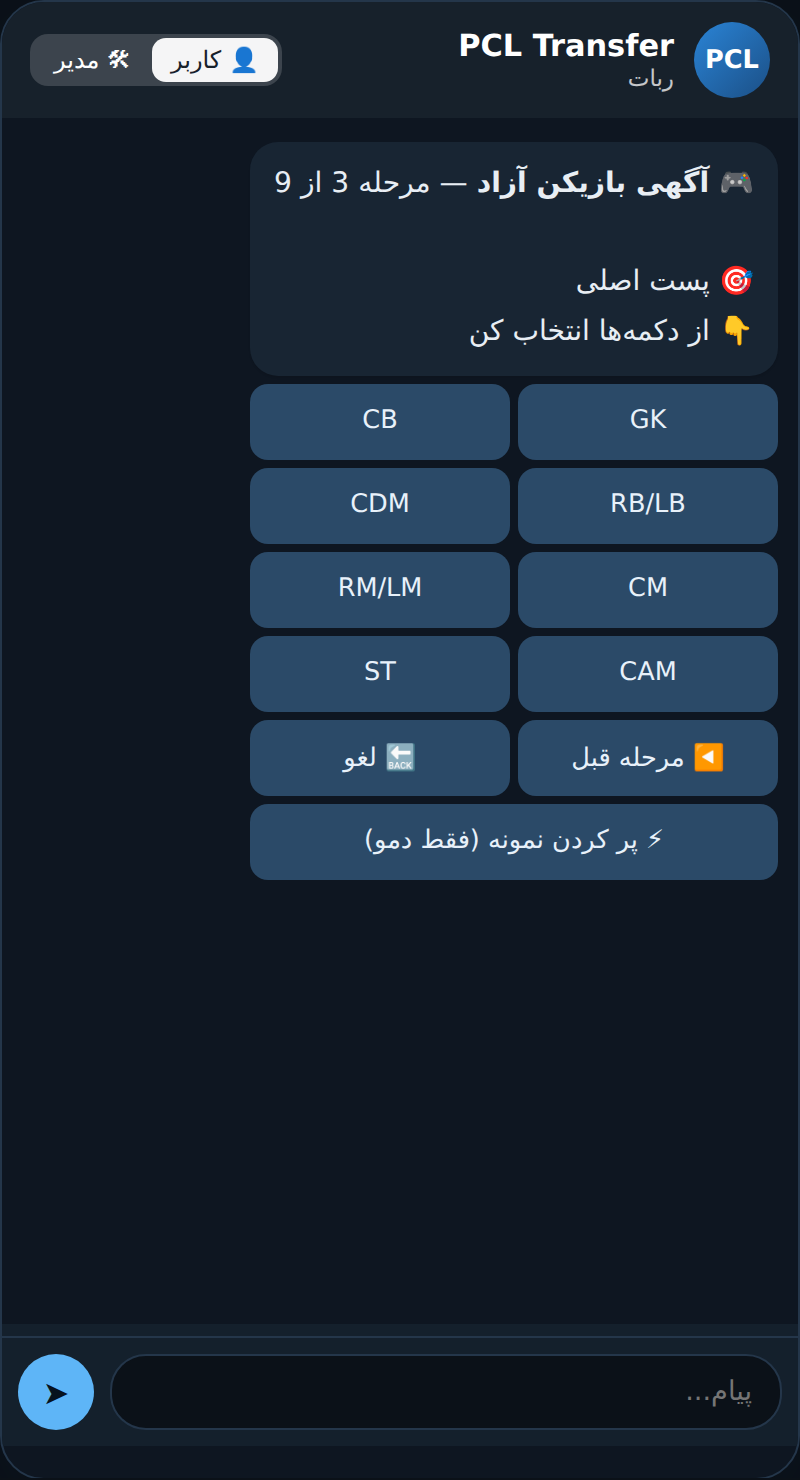
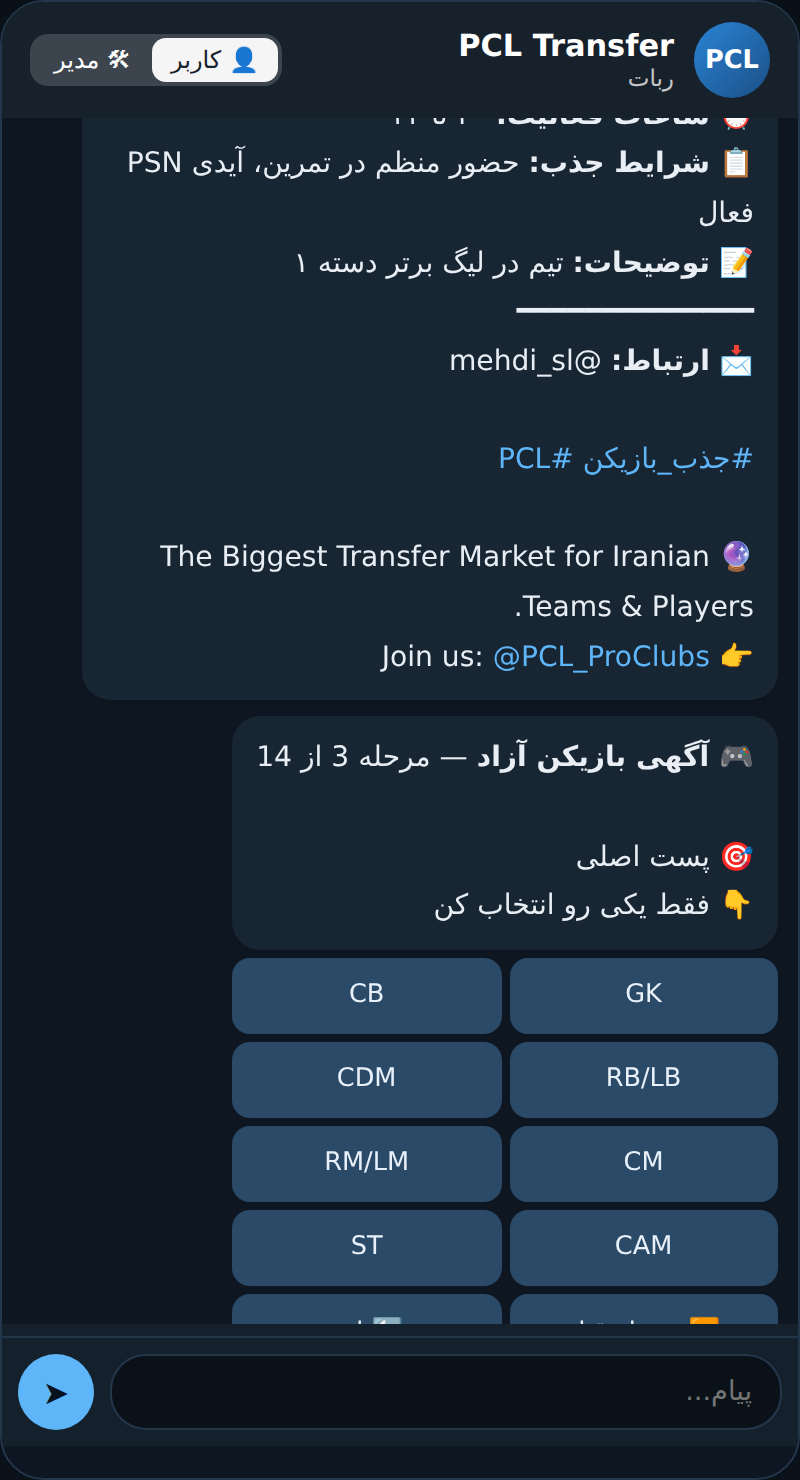
Player ad: button pickers for positions and new fields
- Main position: single choice buttons; second position and team positions: multi-select
- Rename 'سوابق' to 'سوابق بازی'
- New player fields: active days per week (buttons), ping (digits only),
  streaming (yes/no), country, party voice chat (yes/no)
- Demo and screenshots updated

Claude-Session: https://claude.ai/code/session_01EM746abNYmdLe7nAFDnghT

diff --git a/demo/index.html b/demo/index.html
@@ -93,10 +93,10 @@ const esc=s=>String(s??'').replace(/[&<>]/g,c=>({'&':'&amp;','<':'&lt;','>':'&gt
 const fmt=n=>n.toLocaleString('en-US')+' تومان';
 const L='━━━━━━━━━━━━━━';
 const FIELDS={
- player:[['name','👤 نام بازیکن'],['psn','🆔 آیدی PSN یا EA ID'],['pos1','🎯 پست اصلی'],['pos2','🎯 پست دوم'],['history','🏟 سابقه حضور در تیمها'],['honors','🏆 افتخارات بازیکن'],['hours','⏰ ساعات فعالیت'],['notes','📝 توضیحات تکمیلی'],['photo','🖼 تصویر کارت بازیکن']],
+ player:[['name','👤 نام بازیکن'],['psn','🆔 آیدی PSN یا EA ID'],['pos1','🎯 پست اصلی'],['pos2','🎯 پست دوم'],['history','🏟 سوابق بازی'],['honors','🏆 افتخارات بازیکن'],['days','📅 تعداد روزهای فعال در هفته'],['hours','⏰ ساعات فعالیت'],['ping','📶 پینگ (فقط عدد، به میلیثانیه)'],['stream','📡 قابلیت استریم'],['country','🌍 کشور محل زندگی'],['party','🎙 توانایی صحبت در پارتی'],['notes','📝 توضیحات تکمیلی'],['photo','🖼 تصویر کارت بازیکن']],
  team:[['team','🛡 نام تیم'],['logo','🖼 لوگوی تیم'],['captain_tg','✈ آیدی تلگرام کاپیتان'],['positions','🎯 پستهای موردنیاز'],['count','🔢 تعداد بازیکنان موردنیاز'],['hours','⏰ ساعات فعالیت'],['terms','📋 شرایط جذب'],['notes','📝 توضیحات تکمیلی']]};
 const OPT=['photo','logo','notes'];
-const SAMPLE={player:{name:'امیرحسین کریمی',psn:'Amir_CAM10',pos1:'CAM',pos2:'CM',history:'Phoenix FC، Iron Wolves',honors:'قهرمان لیگ دسته ۲ فصل ۱۴',hours:'۲۱ تا ۲۴',notes:'بازیکن تیمی، میکروفون دارم',photo:'card'},
+const SAMPLE={player:{name:'امیرحسین کریمی',psn:'Amir_CAM10',pos1:'CAM',pos2:'CM، RM/LM',history:'Phoenix FC، Iron Wolves',honors:'قهرمان لیگ دسته ۲ فصل ۱۴',days:'5',hours:'۲۱ تا ۲۴',ping:'45',stream:'بله',country:'ایران',party:'بله',notes:'بازیکن تیمی، میکروفون دارم',photo:'card'},
  team:{team:'Shadow Lions',logo:'card',captain_tg:'@mehdi_sl',positions:'GK، CB',count:'2',hours:'۲۰ تا ۲۴',terms:'حضور منظم در تمرین، آیدی PSN فعال',notes:'تیم در لیگ برتر دسته ۱'}};
 const BADGES=[['🥉','برنزی',5],['🥈','نقرهای',15],['🥇','طلایی',30],['💎','الماسی',50],['👑','افسانهای',100]];
 const NAMES={price_normal:'تعرفه ثبت عادی',price_special:'تعرفه ثبت ویژه',renew_normal:'تعرفه تمدید عادی',renew_special:'تعرفه تمدید ویژه',upgrade_price:'تعرفه ارتقا به ویژه',days_normal:'اعتبار عادی (روز)',days_special:'اعتبار ویژه (روز)',referral_reward:'پاداش دعوت'};
@@ -129,7 +129,7 @@ function groupView(){
 }
 function adHtml(a,prev){
  const d=a.d,st=a.special?`<span class="star">⭐ ویژه</span>\n`:'';
- if(a.kind==='player')return `🎮 <b>بازیکن آزاد</b>\n${st}${L}\n👤 <b>نام:</b> ${esc(d.name)}\n🆔 <b>آیدی:</b> <code>${esc(d.psn)}</code>\n🎯 <b>پست اصلی:</b> ${esc(d.pos1)}\n🎯 <b>پست دوم:</b> ${esc(d.pos2)}\n🏟 <b>سوابق:</b> ${esc(d.history)}\n🏆 <b>افتخارات:</b> ${esc(d.honors)}\n⏰ <b>ساعات فعالیت:</b> ${esc(d.hours)}\n${d.notes?`📝 <b>توضیحات:</b> ${esc(d.notes)}\n`:''}${L}\n📩 <b>ارتباط:</b> @ali_pcl\n\n<span class="tag">#بازیکن_آزاد #PCL</span>\n\n🔮 The Biggest Transfer Market for Iranian Teams &amp; Players.\n👉 Join us: <span class="tag">@PCL_ProClubs</span>`;
+ if(a.kind==='player')return `🎮 <b>بازیکن آزاد</b>\n${st}${L}\n👤 <b>نام:</b> ${esc(d.name)}\n🆔 <b>آیدی:</b> <code>${esc(d.psn)}</code>\n🎯 <b>پست اصلی:</b> ${esc(d.pos1)}\n🎯 <b>پست دوم:</b> ${esc(d.pos2)}\n🏟 <b>سوابق بازی:</b> ${esc(d.history)}\n🏆 <b>افتخارات:</b> ${esc(d.honors)}\n${d.days?`📅 <b>روزهای فعال در هفته:</b> ${esc(d.days)}\n`:''}⏰ <b>ساعات فعالیت:</b> ${esc(d.hours)}\n${d.ping?`📶 <b>پینگ:</b> ${esc(d.ping)} ms\n`:''}${d.stream?`📡 <b>استریم:</b> ${esc(d.stream)}\n`:''}${d.country?`🌍 <b>کشور:</b> ${esc(d.country)}\n`:''}${d.party?`🎙 <b>صحبت در پارتی:</b> ${esc(d.party)}\n`:''}${d.notes?`📝 <b>توضیحات:</b> ${esc(d.notes)}\n`:''}${L}\n📩 <b>ارتباط:</b> @ali_pcl\n\n<span class="tag">#بازیکن_آزاد #PCL</span>\n\n🔮 The Biggest Transfer Market for Iranian Teams &amp; Players.\n👉 Join us: <span class="tag">@PCL_ProClubs</span>`;
  return `🛡 <b>آگهی جذب بازیکن</b>\n${st}${L}\n🏷 <b>تیم:</b> ${esc(d.team)}\n🎯 <b>پستهای موردنیاز:</b> ${esc(d.positions)}\n🔢 <b>تعداد موردنیاز:</b> ${esc(d.count)}\n⏰ <b>ساعات فعالیت:</b> ${esc(d.hours)}\n📋 <b>شرایط جذب:</b> ${esc(d.terms)}\n${d.notes?`📝 <b>توضیحات:</b> ${esc(d.notes)}\n`:''}${L}\n📩 <b>ارتباط:</b> ${esc(d.captain_tg)}\n\n<span class="tag">#جذب_بازیکن #PCL</span>\n\n🔮 The Biggest Transfer Market for Iranian Teams &amp; Players.\n👉 Join us: <span class="tag">@PCL_ProClubs</span>`}
 const BK=(to='menu',t='🔙 بازگشت')=>[[t,to]];
 const STT={pending:'⏳ در انتظار تأیید',approved:'✅ تأییدشده و منتشرشده',rejected:'❌ ردشده',expired:'⌛ منقضیشده'};
@@ -160,9 +160,9 @@ function act(a){
  k(){const k=p[1];screen(`<b>${k==='player'?'🎮 آگهی بازیکن آزاد':'🛡 آگهی جذب بازیکن'}</b>\n\nنوع انتشار رو انتخاب کن:\n\n📄 عادی: ${fmt(S.cfg.price_normal)} — ${S.cfg.days_normal} روز\n⭐ ویژه (با نشان مخصوص): ${fmt(S.cfg.price_special)} — ${S.cfg.days_special} روز`,[[['📄 عادی','s:'+k+':0'],['⭐ ویژه','s:'+k+':1']],BK('ad:new')].map(r=>r))},
  s(){S.flow={kind:p[1],special:+p[2],vals:{},idx:0,mode:'new'};ask()},
  skip(){S.flow.vals[curKey()]=null;adv()},
- pp(){S.flow.vals[curKey()]=p[1];adv()},
- pt(){const f=S.flow;f.sel=f.sel||[];const i=f.sel.indexOf(p[1]);i<0?f.sel.push(p[1]):f.sel.splice(i,1);ask()},
- ptok(){const f=S.flow;if(!(f.sel||[]).length)return;f.vals[curKey()]=f.sel.join('، ');f.sel=[];adv()},
+ pp(){const k=curKey();S.flow.vals[k]=CHOICES[k][+p[1]];adv()},
+ pt(){const f=S.flow,k=curKey(),v=CHOICES[k][+p[1]];if(k==='pos2'&&v===f.vals.pos1)return;f.sel=f.sel||[];const i=f.sel.indexOf(v);i<0?f.sel.push(v):f.sel.splice(i,1);ask()},
+ ptok(){const f=S.flow,k=curKey(),sel=POSK.filter(x=>(f.sel||[]).includes(x));if(!sel.length&&k!=='pos2')return;f.vals[k]=sel.length?sel.join('، '):'ندارد';f.sel=[];adv()},
  prevf(){S.flow.idx=Math.max(0,S.flow.idx-1);ask()},
  sample(){S.flow.vals={...SAMPLE[S.flow.kind]};preview()},
  photo(){S.flow.vals[curKey()]='card';say('',null,{me:true,card:'card'});adv()},
@@ -195,22 +195,25 @@ function act(a){
  (A[p[0]]||(()=>{}))();
 }
 function curKey(){return FIELDS[S.flow.kind][S.flow.idx][0]}
-const POSK=['GK','CB','RB/LB','CDM','CM','RM/LM','CAM','ST'];
+const POSK=['GK','CB','RB/LB','CDM','CM','RM/LM','CAM','ST'],YN=['بله','خیر'];
+const CHOICES={pos1:POSK,pos2:POSK,positions:POSK,days:['1','2','3','4','5','6','7'],stream:YN,party:YN};
+const MULTI={pos2:1,positions:1},COLS={days:4};
 function askPos(f,key,label,tot){
- const multi=key==='positions',sel=f.sel||[];
- const btns=POSK.map(x=>[(multi&&sel.includes(x)?'✅ ':'')+x,(multi?'pt:':'pp:')+x]);
- const rows=btns.reduce((r,b,i,a)=>{if(i%2===0)r.push(a.slice(i,i+2));return r},[]);
- if(key==='pos2')rows.push([['➖ ندارم','pp:ندارد']]);
- if(multi)rows.push([['✔ تأیید پستها ('+sel.length+')','ptok']]);
+ const multi=!!MULTI[key],sel=f.sel||[],opts=CHOICES[key];
+ const btns=opts.map((x,i)=>[(multi&&sel.includes(x)?'✅ ':'')+x,(multi?'pt:':'pp:')+i]);
+ const n=COLS[key]||2,rows=btns.reduce((r,b,i,a)=>{if(i%n===0)r.push(a.slice(i,i+n));return r},[]);
+ if(multi)rows.push([[sel.length?'✔ تأیید ('+sel.length+' پست)':(key==='pos2'?'➖ ندارم':'✔ تأیید'),'ptok']]);
  const nav=[];if(f.mode==='new'&&f.idx>0)nav.push(['◀ مرحله قبل','prevf']);nav.push(['🔙 لغو','menu']);rows.push(nav);
  rows.push([['⚡ پر کردن نمونه (فقط دمو)','sample']]);
  S.expect=null;
- screen(`<b>${f.kind==='player'?'🎮 آگهی بازیکن آزاد':'🛡 آگهی جذب بازیکن'}</b>${f.mode==='new'?` — مرحله ${f.idx+1} از ${tot}`:''}\n\n${label}\n👇 از دکمهها انتخاب کن${multi?' (میتونی چند پست انتخاب کنی)':''}`,rows);paint()}
+ screen(`<b>${f.kind==='player'?'🎮 آگهی بازیکن آزاد':'🛡 آگهی جذب بازیکن'}</b>${f.mode==='new'?` — مرحله ${f.idx+1} از ${tot}`:''}\n\n${label}\n${multi?'👇 هر چند پست که میخوای انتخاب کن، بعد «تأیید» رو بزن':'👇 فقط یکی رو انتخاب کن'}`,rows);paint()}
 function ask(){const f=S.flow,[key,label]=FIELDS[f.kind][f.idx],isP=['photo','logo'].includes(key),tot=FIELDS[f.kind].length;
- if(['pos1','pos2','positions'].includes(key))return askPos(f,key,label,tot);
+ if(CHOICES[key])return askPos(f,key,label,tot);
  const rows=[];const r=[];if(OPT.includes(key))r.push(['⏭ رد کردن','skip']);if(isP)r.push(['📸 ارسال عکس نمونه','photo']);if(f.mode==='new'&&f.idx>0)r.push(['◀ مرحله قبل','prevf']);if(r.length)rows.push(r);
  rows.push([['⚡ پر کردن نمونه (فقط دمو)','sample']]);rows.push(BK('menu','🔙 لغو')); 
- S.expect=isP?null:{hint:'جواب را بنویس و ارسال کن',fn:t=>{S.flow.vals[key]=t;adv()}};
+ const ex={hint:key==='ping'?'فقط عدد بنویس، مثلاً 45':'جواب را بنویس و ارسال کن'};
+ ex.fn=t=>{if(key==='ping'){const n=parseInt(t.replace(/[۰-۹]/g,c=>'۰۱۲۳۴۵۶۷۸۹'.indexOf(c)));if(!/^[0-9۰-۹]+$/.test(t.trim())||n<1||n>999){S.expect=ex;return say('⚠ فقط یک عدد بین ۱ تا ۹۹۹ بنویس. مثلاً: 45')}t=String(n)}S.flow.vals[key]=t;adv()};
+ S.expect=isP?null:ex;
  screen(`<b>${f.kind==='player'?'🎮 آگهی بازیکن آزاد':'🛡 آگهی جذب بازیکن'}</b>${f.mode==='new'?` — مرحله ${f.idx+1} از ${tot}`:''}\n\n${label}\n${isP?'📸 تصویر رو بفرست':'✍ بنویس و بفرست'}${OPT.includes(key)?'\n(اختیاری)':''}`,rows);paint()}
 function adv(){const f=S.flow;if(f.mode==='new'){if(f.idx+1<FIELDS[f.kind].length){f.idx++;ask()}else preview()}else{f.mode='new';preview()}}
 function preview(){const f=S.flow;S.expect=null;const price=f.special?S.cfg.price_special:S.cfg.price_normal,days=f.special?S.cfg.days_special:S.cfg.days_normal;

diff --git a/pclbot/handlers/ads.py b/pclbot/handlers/ads.py
@@ -8,7 +8,8 @@ from aiogram.types import CallbackQuery, Message
 
 from .. import db, services
 from ..keyboards import back, btn, kb, pairs
-from ..texts import KIND_TITLE, OPTIONAL, STATUS_TITLE, fields_of, fingerprint, fmt_date, money, render_ad
+from ..texts import (CHOICE_COLS, CHOICE_MODE, CHOICES, KIND_TITLE, NO_POS, OPTIONAL, POSITIONS, STATUS_TITLE, fields_of,
+                     fingerprint, fmt_date, money, render_ad)
 from ..utils import is_admin, show
 
 router = Router()
@@ -44,11 +45,15 @@ async def send_ad(bot: Bot, chat_id: int, ad: dict, markup, user: dict | None = 
 async def ask(event: CallbackQuery | Message, state: FSMContext) -> None:
     data = await state.get_data()
     key, label, kind = fields_of(data["kind"])[data["idx"]]
-    hint = "📸 تصویر رو بفرست" if kind == "photo" else "✍ بنویس و بفرست"
     total = len(fields_of(data["kind"]))
     head = f"<b>{KIND_TITLE[data['kind']]}</b>"
     if data["mode"] == "new":
         head += f" — مرحله {data['idx'] + 1} از {total}"
+    if key in CHOICE_MODE:
+        return await ask_position(event, state, data, key, label, head)
+    hint = "📸 تصویر رو بفرست" if kind == "photo" else "✍ بنویس و بفرست"
+    if key == "ping":
+        hint = "✍ فقط عدد بنویس، مثلاً 45"
     text = f"{head}\n\n{label}\n{hint}" + ("\n(اختیاری)" if key in OPTIONAL else "")
     row = []
     if key in OPTIONAL:
@@ -58,6 +63,37 @@ async def ask(event: CallbackQuery | Message, state: FSMContext) -> None:
     rows = [row] if row else []
     rows.append(back(data.get("back", "menu"), "🔙 لغو"))
     await reply(event, text, kb(rows))
+
+
+def split_positions(value: str | None) -> list[str]:
+    return [x.strip() for x in (value or "").split("،") if x.strip() in POSITIONS]
+
+
+async def ask_position(event, state: FSMContext, data: dict, key: str, label: str, head: str) -> None:
+    multi = CHOICE_MODE[key] == "multi"
+    options = CHOICES[key]
+    sel: list[str] = []
+    if multi:
+        # (re)load the selection when entering the step, so editing starts from the saved value
+        if data.get("sel_key") != key:
+            await state.update_data(sel=split_positions(data["vals"].get(key)), sel_key=key)
+            data = await state.get_data()
+        sel = data["sel"]
+    btns = [btn(("✅ " if p in sel else "") + p, f"ad:{'pt' if multi else 'pp'}:{i}") for i, p in enumerate(options)]
+    rows = pairs(btns, CHOICE_COLS.get(key, 2))
+    if multi:
+        if sel:
+            ok = f"✔ تأیید ({len(sel)} پست)"
+        else:
+            ok = "➖ ندارم" if key == "pos2" else "✔ تأیید"
+        rows.append([btn(ok, "ad:ptok")])
+    nav = []
+    if data["mode"] == "new" and data["idx"] > 0:
+        nav.append(btn("◀ مرحله قبل", "ad:prevf"))
+    nav.append(btn("🔙 لغو", data.get("back", "menu")))
+    rows.append(nav)
+    hint = "👇 فقط یکی رو انتخاب کن" if not multi else "👇 هر چند پست که میخوای انتخاب کن، بعد «تأیید» رو بزن"
+    await reply(event, f"{head}\n\n{label}\n{hint}", kb(rows))
 
 
 async def show_preview(event: CallbackQuery | Message, state: FSMContext, bot: Bot) -> None:
@@ -154,10 +190,61 @@ async def skip_field(c: CallbackQuery, state: FSMContext, bot: Bot):
     await advance(c, state, bot)
 
 
+def current_key(data: dict) -> str:
+    return fields_of(data["kind"])[data["idx"]][0]
+
+
+@router.callback_query(AdForm.fill, F.data.startswith("ad:pp:"))
+async def pick_single(c: CallbackQuery, state: FSMContext, bot: Bot):
+    data = await state.get_data()
+    key = current_key(data)
+    if CHOICE_MODE.get(key) != "single":
+        return await c.answer()
+    vals = data["vals"]
+    vals[key] = CHOICES[key][int(c.data[6:])]
+    await state.update_data(vals=vals)
+    await c.answer()
+    await advance(c, state, bot)
+
+
+@router.callback_query(AdForm.fill, F.data.startswith("ad:pt:"))
+async def toggle_position(c: CallbackQuery, state: FSMContext):
+    data = await state.get_data()
+    key = current_key(data)
+    if CHOICE_MODE.get(key) != "multi":
+        return await c.answer()
+    pos = CHOICES[key][int(c.data[6:])]
+    sel = data.get("sel", [])
+    if key == "pos2" and pos == data["vals"].get("pos1"):
+        return await c.answer("این رو بهعنوان پست اصلی انتخاب کردی.", show_alert=True)
+    sel = [x for x in sel if x != pos] if pos in sel else sel + [pos]
+    await state.update_data(sel=sel, sel_key=key)
+    await c.answer()
+    await ask(c, state)
+
+
+@router.callback_query(AdForm.fill, F.data == "ad:ptok")
+async def confirm_positions(c: CallbackQuery, state: FSMContext, bot: Bot):
+    data = await state.get_data()
+    key = current_key(data)
+    if CHOICE_MODE.get(key) != "multi":
+        return await c.answer()
+    sel = [p for p in POSITIONS if p in data.get("sel", [])]
+    if not sel and key != "pos2":
+        return await c.answer("حداقل یک پست انتخاب کن.", show_alert=True)
+    vals = data["vals"]
+    vals[key] = "، ".join(sel) if sel else NO_POS
+    await state.update_data(vals=vals, sel=[], sel_key=None)
+    await c.answer()
+    await advance(c, state, bot)
+
+
 @router.message(AdForm.fill)
 async def got_value(m: Message, state: FSMContext, bot: Bot):
     data = await state.get_data()
     key, label, kind = fields_of(data["kind"])[data["idx"]]
+    if key in CHOICE_MODE:
+        return await m.answer("👇 از دکمههای بالا انتخاب کن.")
     if kind == "photo":
         if not m.photo:
             return await m.answer("📸 لطفاً یک عکس بفرست (یا رد کن).")
@@ -169,6 +256,11 @@ async def got_value(m: Message, state: FSMContext, bot: Bot):
         limit = 500 if key == "notes" else 200
         if len(value) > limit:
             return await m.answer(f"⚠ حداکثر {limit} کاراکتر مجازه. کوتاهترش کن.")
+        if key == "ping":
+            value = value.translate(str.maketrans("۰۱۲۳۴۵۶۷۸۹٠١٢٣٤٥٦٧٨٩", "01234567890123456789"))
+            if not value.isdigit() or not 1 <= int(value) <= 999:
+                return await m.answer("⚠ فقط یک عدد بین ۱ تا ۹۹۹ بنویس. مثلاً: 45")
+            value = str(int(value))
         if key == "captain_tg" and not TG_RE.match(value):
             return await m.answer("⚠ آیدی تلگرام معتبر نیست. مثل: @captain_pcl")
     vals = data["vals"]

diff --git a/pclbot/texts.py b/pclbot/texts.py
@@ -7,9 +7,14 @@ PLAYER_FIELDS = [
     ("psn", "🆔 آیدی PSN یا EA ID", "text"),
     ("pos1", "🎯 پست اصلی", "text"),
     ("pos2", "🎯 پست دوم", "text"),
-    ("history", "🏟 سابقه حضور در تیمها", "text"),
+    ("history", "🏟 سوابق بازی", "text"),
     ("honors", "🏆 افتخارات بازیکن", "text"),
+    ("days", "📅 تعداد روزهای فعال در هفته", "text"),
     ("hours", "⏰ ساعات فعالیت", "text"),
+    ("ping", "📶 پینگ (فقط عدد، به میلیثانیه)", "text"),
+    ("stream", "📡 قابلیت استریم", "text"),
+    ("country", "🌍 کشور محل زندگی", "text"),
+    ("party", "🎙 توانایی صحبت در پارتی", "text"),
     ("notes", "📝 توضیحات تکمیلی", "text"),
     ("photo", "🖼 تصویر کارت بازیکن", "photo"),
 ]
@@ -24,6 +29,17 @@ TEAM_FIELDS = [
     ("notes", "📝 توضیحات تکمیلی", "text"),
 ]
 OPTIONAL = {"photo", "logo", "notes"}
+
+# Fields picked with buttons: "single" = exactly one, "multi" = any number
+POSITIONS = ["GK", "CB", "RB/LB", "CDM", "CM", "RM/LM", "CAM", "ST"]
+YES_NO = ["بله", "خیر"]
+CHOICES = {
+    "pos1": POSITIONS, "pos2": POSITIONS, "positions": POSITIONS,
+    "days": [str(i) for i in range(1, 8)], "stream": YES_NO, "party": YES_NO,
+}
+CHOICE_MODE = {"pos1": "single", "pos2": "multi", "positions": "multi", "days": "single", "stream": "single", "party": "single"}
+CHOICE_COLS = {"days": 4}
+NO_POS = "ندارد"
 
 KIND_TITLE = {"player": "🎮 آگهی بازیکن آزاد", "team": "🛡 آگهی جذب بازیکن"}
 STATUS_TITLE = {
@@ -90,10 +106,21 @@ def render_ad(ad: dict, user: dict | None = None, preview: bool = False) -> str:
             f"🆔 <b>آیدی:</b> <code>{e(d.get('psn'))}</code>\n"
             f"🎯 <b>پست اصلی:</b> {e(d.get('pos1'))}\n"
             f"🎯 <b>پست دوم:</b> {e(d.get('pos2'))}\n"
-            f"🏟 <b>سوابق:</b> {e(d.get('history'))}\n"
+            f"🏟 <b>سوابق بازی:</b> {e(d.get('history'))}\n"
             f"🏆 <b>افتخارات:</b> {e(d.get('honors'))}\n"
-            f"⏰ <b>ساعات فعالیت:</b> {e(d.get('hours'))}\n"
         )
+        # fields added later are skipped for older ads that don't have them
+        if d.get("days"):
+            body += f"📅 <b>روزهای فعال در هفته:</b> {e(d['days'])}\n"
+        body += f"⏰ <b>ساعات فعالیت:</b> {e(d.get('hours'))}\n"
+        if d.get("ping"):
+            body += f"📶 <b>پینگ:</b> {e(d['ping'])} ms\n"
+        if d.get("stream"):
+            body += f"📡 <b>استریم:</b> {e(d['stream'])}\n"
+        if d.get("country"):
+            body += f"🌍 <b>کشور:</b> {e(d['country'])}\n"
+        if d.get("party"):
+            body += f"🎙 <b>صحبت در پارتی:</b> {e(d['party'])}\n"
         tags = "#بازیکن_آزاد #PCL"
     else:
         body = (
